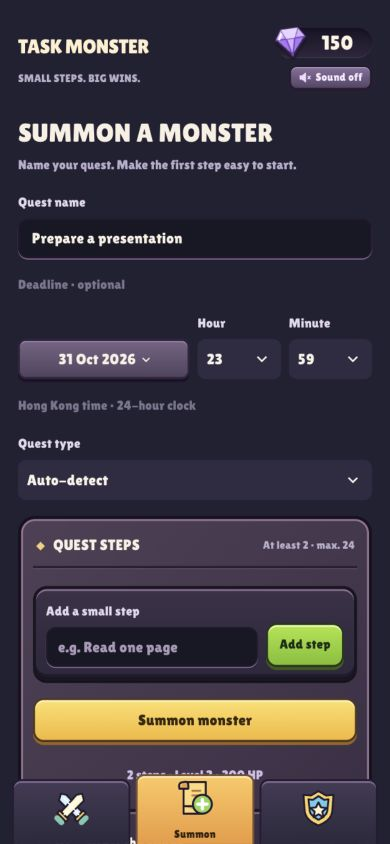
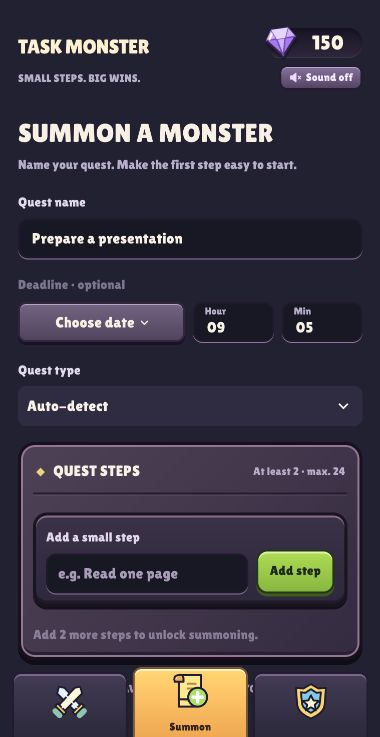
Compact deadline fields and remove completion timezone suffix
Use keyboard entry for hours and minutes with faint labels inside the fields, tighten the deadline row spacing, and validate entered time ranges. Remove HKT from completion timestamps and refresh demonstration screenshots.

Changed region(s): [[0.0289, 0.0312, 0.9553, 0.6554], [0.0289, 0.6866, 0.9553, 1.0], [0.6947, 0.0312, 0.9553, 0.1248]]

diff --git a/task-monster/assets/game.css b/task-monster/assets/game.css
@@ -371,3 +371,13 @@ button:disabled { opacity:.5; filter:grayscale(.6); }
 /* Keep the inward-shifted portrait clear of the words on narrow phones. */
 @media(max-width:420px){.hero h2{font-size:20px}.hero p{font-size:11px;max-width:51%}}
 @media(max-width:360px){.hero-group{right:-5px}.hero h2{font-size:18px}.hero p{max-width:49%;font-size:10px}}
+
+/* Compact deadline row, with quiet labels inside keyboard-only time fields. */
+.st-key-deadline_picker { gap:7px !important; }
+.st-key-deadline_picker>[data-testid="stHorizontalBlock"] { align-items:center !important; }
+.st-key-deadline_hour_field,.st-key-deadline_minute_field { position:relative; }
+.st-key-deadline_hour_field::before,.st-key-deadline_minute_field::before { position:absolute; top:4px; left:12px; z-index:1; color:#b9aecb; font:400 10px GameFont,sans-serif; line-height:1; pointer-events:none; }
+.st-key-deadline_hour_field::before { content:"Hour"; }
+.st-key-deadline_minute_field::before { content:"Min"; }
+.st-key-deadline_hour_field [data-baseweb="input"],.st-key-deadline_minute_field [data-baseweb="input"] { height:40px; border-radius:9px; }
+.st-key-deadline_hour_field input,.st-key-deadline_minute_field input { height:40px; box-sizing:border-box; padding:13px 12px 3px !important; font-size:13px; line-height:1; }

diff --git a/task-monster/tests/test_app.py b/task-monster/tests/test_app.py
@@ -90,7 +90,7 @@ class TaskMonsterTests(unittest.TestCase):
         self.assertEqual(self.app.session_state["page"], "review")
         self.assertFalse(any(b.label in ("Undo", "Abandon quest", "Complete & strike!") for b in self.app.button))
         self.assertFalse(any('<div class="battle-hp"' in m.value for m in self.app.markdown))
-        self.assertTrue(any("HKT" in m.value for m in self.app.markdown))
+        self.assertFalse(any("HKT" in m.value for m in self.app.markdown))
         self.button("back_to_quests")
         self.assertEqual(self.app.session_state["page"], "gallery")
 
@@ -214,8 +214,8 @@ class TaskMonsterTests(unittest.TestCase):
         self.app.selectbox(key="deadline_month").select("November").run()
         self.app.number_input(key="deadline_year").set_value(2026).run()
         self.button("deadline_day_2026_11_1")
-        self.app.selectbox(key="deadline_hour").select(23).run()
-        self.app.selectbox(key="deadline_minute").select(59).run()
+        self.app.text_input(key="deadline_hour_text").set_value("23").run()
+        self.app.text_input(key="deadline_minute_text").set_value("59").run()
         for step in ("Draft the slides", "Rehearse"):
             next(f for f in self.app.text_input if f.label == "Add a small step").set_value(step)
             self.click("Add step")
@@ -226,6 +226,26 @@ class TaskMonsterTests(unittest.TestCase):
         self.assertEqual(load_tasks(self.file)[0][0]["due_at"],task["due_at"])
         self.button("nav_home")
         self.assertTrue(any("01 Nov 2026 · 23:59" in m.value for m in self.app.markdown))
+
+    def test_keyboard_deadline_rejects_invalid_time_without_saving(self):
+        self.button("nav_create")
+        self.app.text_input(key="new_title").set_value("Plan tomorrow").run()
+        self.app.selectbox(key="deadline_month").select("November").run()
+        self.app.number_input(key="deadline_year").set_value(2026).run()
+        self.button("deadline_day_2026_11_1")
+        for step in ("Plan", "Review"):
+            next(f for f in self.app.text_input if f.label == "Add a small step").set_value(step)
+            self.click("Add step")
+        for hour, minute in (("24", "00"), ("23", "60"), ("", "30"), ("ab", "15")):
+            self.app.text_input(key="deadline_hour_text").set_value(hour)
+            self.app.text_input(key="deadline_minute_text").set_value(minute)
+            self.click("Summon monster")
+            self.assertIn("Enter an hour", self.app.warning[0].value)
+            self.assertEqual(self.app.session_state["tasks"], [])
+        self.app.text_input(key="deadline_hour_text").set_value("9")
+        self.app.text_input(key="deadline_minute_text").set_value("05")
+        self.click("Summon monster")
+        self.assertEqual(self.app.session_state["tasks"][0]["due_at"], "2026-11-01T01:05:00+00:00")
 
     def test_english_calendar_handles_leap_day_and_clear(self):
         self.button("nav_create")

diff --git a/task-monster/deadline_picker.py b/task-monster/deadline_picker.py
@@ -16,6 +16,17 @@ def clear_date():
     st.session_state.new_due_date = None
 
 
+def keyboard_time(hour, minute):
+    """Accept keyboard digits only; invalid input never silently changes a deadline."""
+    hour, minute = hour.strip(), minute.strip()
+    if not all(value.isascii() and value.isdigit() for value in (hour, minute)):
+        return None
+    try:
+        return time(int(hour), int(minute))
+    except ValueError:
+        return None
+
+
 def deadline_picker():
     selected = st.session_state.get("new_due_date")
     today = date.today()
@@ -41,8 +52,9 @@ def deadline_picker():
                             column.button(str(day), key=f"deadline_day_{year}_{month}_{day}", type="primary" if selected == date(year, month, day) else "secondary", use_container_width=True, on_click=choose_date, args=(year, month, day))
                 st.button("Clear date", key="clear_deadline", on_click=clear_date, use_container_width=True)
         with hour_column:
-            hour = st.selectbox("Hour", range(24), index=23, format_func=lambda value: f"{value:02d}", key="deadline_hour")
+            with st.container(key="deadline_hour_field"):
+                hour = st.text_input("Hour", value="23", max_chars=2, placeholder="00–23", label_visibility="collapsed", key="deadline_hour_text", autocomplete="off")
         with minute_column:
-            minute = st.selectbox("Minute", range(60), index=59, format_func=lambda value: f"{value:02d}", key="deadline_minute")
-        st.caption("Hong Kong time · 24-hour clock")
-    return st.session_state.get("new_due_date"), time(hour, minute)
+            with st.container(key="deadline_minute_field"):
+                minute = st.text_input("Minute", value="59", max_chars=2, placeholder="00–59", label_visibility="collapsed", key="deadline_minute_text", autocomplete="off")
+    return st.session_state.get("new_due_date"), keyboard_time(hour, minute)

diff --git a/task-monster/app.py b/task-monster/app.py
@@ -156,7 +156,7 @@ elif page == "create":
             if st.button("Summon monster", key="summon_button", type="primary", use_container_width=True):
                 try:
                     if due_date and due_time is None:
-                        raise ValueError("Choose a deadline time, or clear the deadline date.")
+                        raise ValueError("Enter an hour from 00 to 23 and minutes from 00 to 59, or clear the deadline date.")
                     due_at = datetime.combine(due_date, due_time, tzinfo=ZoneInfo("Asia/Hong_Kong")).isoformat() if due_date else None
                     task = create_task(title, st.session_state.draft, category, due_at=due_at)
                 except ValueError as error:
@@ -199,7 +199,7 @@ elif page in ("battle", "review"):
         st.session_state.notice = None
     if reviewing:
         try:
-            completed = datetime.fromisoformat(task.get("completed_at") or "").astimezone(ZoneInfo("Asia/Hong_Kong")).strftime("%d %b %Y · %H:%M HKT")
+            completed = datetime.fromisoformat(task.get("completed_at") or "").astimezone(ZoneInfo("Asia/Hong_Kong")).strftime("%d %b %Y · %H:%M")
         except (ValueError, TypeError):
             completed = "Time unavailable for this older quest"
         markup(f'<div class="completion-date"><small>QUEST COMPLETED</small><strong>{esc(completed)}</strong></div>')

diff --git a/task-monster/PROCESS.md b/task-monster/PROCESS.md
@@ -131,6 +131,12 @@ OpenAI built-in image generation produced a two-frame transparent expression she
 
 Nineteen Python/AppTest checks passed, including all species/state selections, undo restoration, English controls, leap-day selection, clearing the date, UTC persistence and legacy saves. Browser checks exercised healthy → hurt → weak → undo transitions, measured Undo at 48×36px with its text center one pixel above the button center, and verified English calendar selection at 390×844 and 320×568. The narrow calendar scrolls internally to reach its lower rows. Screenshots use isolated fictional data; no independent user trial is claimed.
 
+## Compact keyboard time entry
+
+The author requested removal of the completion timestamp's HKT suffix and the deadline helper line. The underlying Hong Kong timezone conversion remains consistent. Hours and minutes now use keyboard text fields with accessible names, faint internal labels and no dropdown or numeric spinner. The deadline title and its three controls sit closer together. Invalid, missing or out-of-range time digits prevent summoning a dated quest instead of silently saving another time; undated quests remain optional.
+
+Twenty Python/AppTest checks passed, including valid keyboard entry, rejected 24-hour/60-minute values, blank/non-numeric input, UTC persistence and completion display without HKT. Browser inspection confirmed aligned 40px controls, direct keyboard input and the revised completion recap. Updated screenshots use fictional demonstration tasks only.
+
 ## User trial — still to complete
 
 Ask another person to create a quest and complete a step before explaining how the app works. Record the real observation and decision without identifying them.

diff --git a/README.md b/README.md
@@ -43,7 +43,7 @@ The interface stays within a 460px phone-style frame on desktop and adapts to na
 
 ## Deadlines
 
-The optional date and time controls sit below Quest Name. Deadlines are saved in UTC and displayed in Hong Kong time on active quest cards, without a timezone suffix. Past deadlines are allowed and labelled OVERDUE. Existing tasks without a deadline show No deadline set; they are not assigned an invented date. The custom calendar uses fixed English month and weekday names. The date, hour and minute controls do not depend on the browser locale. Deadline labels and values share one row.
+The optional date and time controls sit below Quest Name. Deadlines are saved in UTC and displayed in Hong Kong time on active quest cards, without a timezone suffix. Past deadlines are allowed and labelled OVERDUE. Existing tasks without a deadline show No deadline set; they are not assigned an invented date. The custom calendar uses fixed English month and weekday names. Hours and minutes are entered with the keyboard, with quiet labels inside the fields. The date and time controls do not depend on the browser locale. Deadline labels and values share one row.
 
 ## Sound
 

diff --git a/task-monster/README.md b/task-monster/README.md
@@ -34,7 +34,7 @@ Fictional demonstration tasks, not records of user testing:
 
 ## Deadlines
 
-The optional date and time controls sit below Quest Name. Deadlines are saved in UTC and displayed in Hong Kong time on active quest cards, without a timezone suffix. Past deadlines are allowed and labelled OVERDUE. Existing tasks without a deadline show No deadline set; they are not assigned an invented date. The custom calendar uses fixed English month and weekday names. The date, hour and minute controls do not depend on the browser locale. Deadline labels and values share one row.
+The optional date and time controls sit below Quest Name. Deadlines are saved in UTC and displayed in Hong Kong time on active quest cards, without a timezone suffix. Past deadlines are allowed and labelled OVERDUE. Existing tasks without a deadline show No deadline set; they are not assigned an invented date. The custom calendar uses fixed English month and weekday names. Hours and minutes are entered with the keyboard, with quiet labels inside the fields. The date and time controls do not depend on the browser locale. Deadline labels and values share one row.
 
 ## Sound
 
